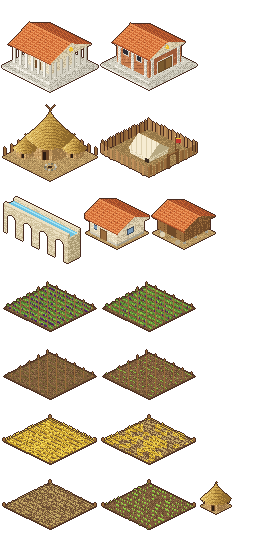
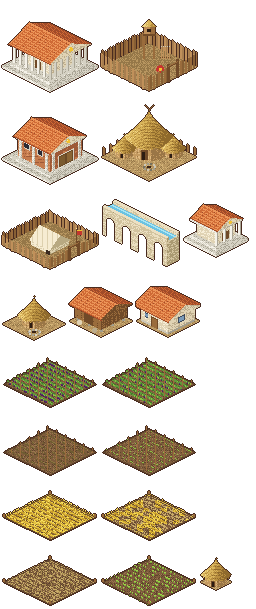
Add barracks and temple to Era I: the Arx and Aedes Vestae
Castra is buildable from Era I as the stockaded Arx, and a new temple
building appears as Vesta's round thatched Aedes (with an animated sacred
fire) in Era I and a small marble Templum in Era II. Era-specific names and
pictures now come from an "early" entry in the building definition, which
also replaces the Regia special case. The temple has no powers yet.

diff --git a/docs/DESIGN.md b/docs/DESIGN.md
@@ -43,8 +43,8 @@ name and dates on hover, and a progress readout while an advance is under way. *
 
 | Era | Feel | Content (planned) |
 |---|---|---|
-| I Regnum | A hut village finding its feet | Villagers; Casa (hut); Ager (wheat field); Horreum; Forum; dirt roads that wear into the ground |
-| II Res Publica | Citizens, civic life, first conquests | Stone Domus; **paved roads (Via)**; **Vinea** (vineyards); **Curia** (Senate house); **Aquaeductus**; **Castra** and citizen soldiers (**Milites**). All built (see below) |
+| I Regnum | A hut village finding its feet | Villagers; Casa (hut); Ager (wheat field); Horreum; Regia; **Arx** (stockaded citadel, trains soldiers); **Aedes Vestae** (round thatched shrine with a sacred fire); dirt roads that wear into the ground |
+| II Res Publica | Citizens, civic life, first conquests | Stone Domus; **paved roads (Via)**; **Vinea** (vineyards); **Curia** (Senate house); **Aquaeductus**; **Castra** and citizen soldiers (**Milites**); **Templum**. All built (see below) |
 | III Imperium Populi Romani | Legions and expansion | Legions, barracks, ships and harbours, provinces, bigger aqueducts |
 | IV Principatus | Peak: monuments, baths, amphitheatres | Baths, amphitheatre, triumphal arches, roads and aqueducts at scale |
 | V Dominatus | Holding on | Walls and fortifications, barbarian pressure, economic strain; the "fall" gameplay |
@@ -67,7 +67,8 @@ vs `town_center`) depend on the era (`Building.era`).
 | Paved road | *Via* | dragged out and paved by villagers; 1.7x speed |
 | Senate house | *Curia* | brick hall with marble pilasters and bronze doors. Pure prestige for now: its powers (the Senate) come later |
 | Aqueduct | *Aquaeductus* | a 4x1 run of arches carrying a water channel; +8 population (fresh water lets a bigger town live here). People walk under the arches |
-| Barracks | *Castra* | a palisaded camp; trains soldiers |
+| Barracks | *Castra* | a palisaded camp; trains soldiers. In Era I the same building is the *Arx*, a stockaded hilltop fortress with a watchtower (`Defs` "early" entry), and it can already be built |
+| Temple | *Templum* | a small marble temple on a high podium with four front columns. In Era I the same building is the *Aedes* (Vesta's round thatched shrine with an animated sacred fire). Pure prestige for now, like the Curia |
 | Soldier | *Miles* | an early-Republic citizen soldier: bronze helmet with a crest, breastplate, round shield, spear. Can march but not work, and there is no combat yet |
 | Vineyard | *Vinea* | a renewable field like the Ager, but its crop is wine, sold for **gold** (200 per crop, ripens again in 30 s) |
 
